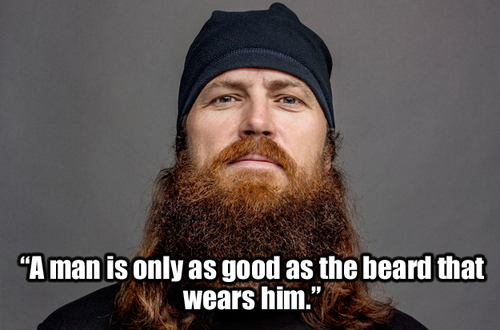
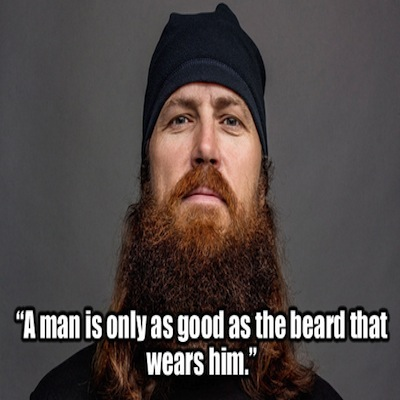
Styled index page using bootstrap, resized images and updated CSS.

diff --git a/app/assets/stylesheets/application.css b/app/assets/stylesheets/application.css
@@ -11,3 +11,6 @@
  *= require_self
  *= require_tree .
  */
+.home_image{
+text-align: center;
+}

diff --git a/spec/features/user_story_spec.rb b/spec/features/user_story_spec.rb
@@ -4,7 +4,7 @@ describe "viewing posters" do
   it "should show a list of motivational products" do
     visit '/'
     expect(page).to have_content "MotiPoster"
-    expect(page).to have_content "Pick a product"
+    expect(page).to have_content "Products"
   end
 end
 
